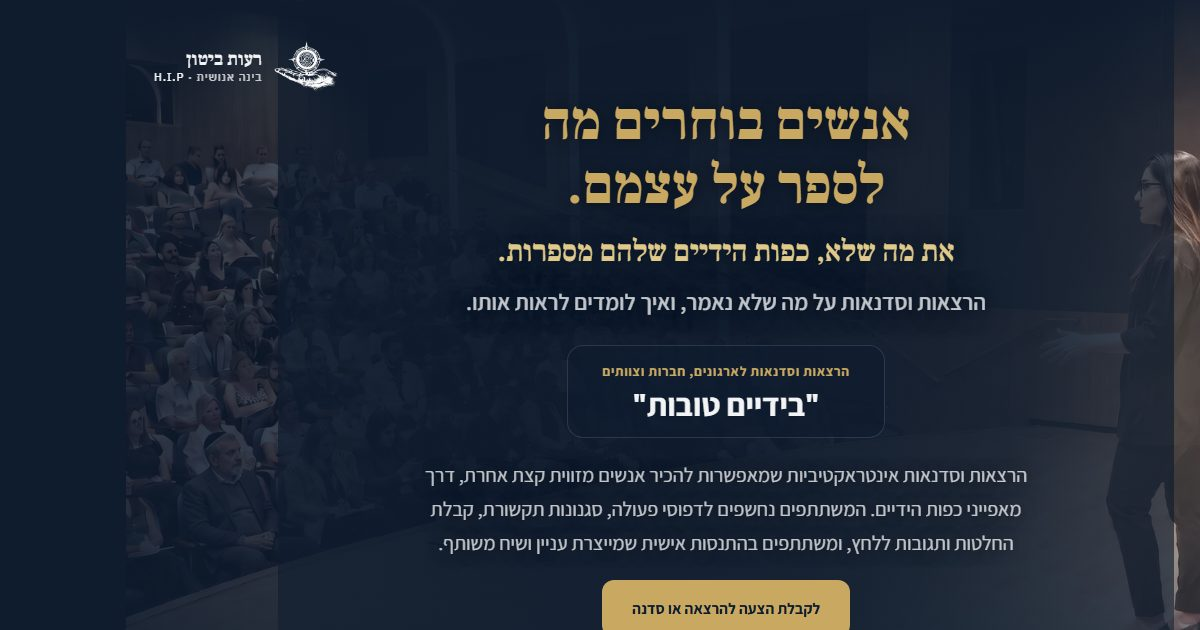
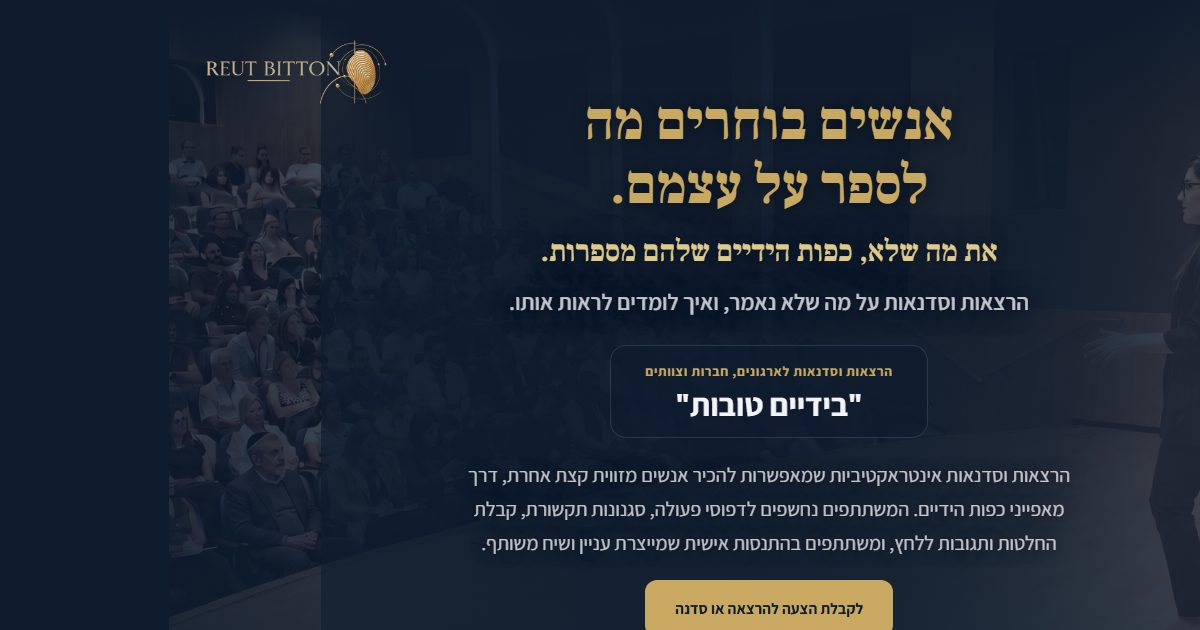
הלוגו של האתר הראשי בפתיח ובפוטר (יובל 08/11: "תשתמש בלוגו הזה")
media/logo.webp הוא הקובץ שהאתר עצמו מציג בסרגל ובפוטר (logo-compact-ondark, בלי שורת התיאור),
עם רקע שקוף. מחליף את סימן היד והטקסט "רעות ביטון · בינה אנושית". תמונת השיתוף הופקה מחדש.

diff --git a/index.html b/index.html
@@ -2673,6 +2673,15 @@ html.skin-f .bc .about > .wrap { position:relative; z-index:1; }
         linear-gradient(180deg, rgba(15,28,46,.4), rgba(15,28,46,.4)) !important;
     }
   }
+  /* 08/11, יובל: "תשתמש בלוגו הזה": הלוגו של האתר הראשי (assets/images/brand/logo-compact-ondark, הגרסה בלי שורת התיאור,
+     אותו קובץ שהאתר מציג בסרגל ובפוטר) במקום סימן היד והטקסט "רעות ביטון · בינה אנושית". הטקסט נשאר בסימון ומוסתר. */
+  html.skin-f .bc .wm-hand, html.skin-f .bc .hero .wm-hand { content:url(media/logo.webp); width:auto; height:64px; }
+  html.skin-f .bc .wordmark .wm-txt { display:none; }
+  html.skin-f .bc footer .foot-wordmark .wm-hand { height:58px; }
+  @media (max-width:720px){
+    html.skin-f .bc .wm-hand, html.skin-f .bc .hero .wm-hand { width:auto; height:48px; }
+    html.skin-f .bc footer .foot-wordmark .wm-hand { height:48px; }
+  }
 </style>
 
 <div class="bc">
@@ -2683,7 +2692,7 @@ html.skin-f .bc .about > .wrap { position:relative; z-index:1; }
   <header class="hero" id="top">
     <div class="wrap">
       <div class="topbar">
-        <a href="#top" class="wordmark" aria-label="רעות ביטון, לראש הדף"><img class="wm-hand" src="media/mark.png" width="209" height="160" alt="" aria-hidden="true"><span class="wm-txt"><span class="wm-name">רעות ביטון</span><span class="wm-sub">בינה אנושית · <span class="ltr">H.I.P</span></span></span></a>
+        <a href="#top" class="wordmark" aria-label="רעות ביטון, לראש הדף"><img class="wm-hand" src="media/logo.webp" width="640" height="209" alt="רעות ביטון"><span class="wm-txt"><span class="wm-name">רעות ביטון</span><span class="wm-sub">בינה אנושית · <span class="ltr">H.I.P</span></span></span></a>
       </div>
       <div class="hero-copy">
         <h1 class="fade">אנשים בוחרים מה לספר על עצמם.</h1>
@@ -2998,7 +3007,7 @@ html.skin-f .bc .about > .wrap { position:relative; z-index:1; }
 
   <footer>
     <div class="wrap">
-      <div class="wordmark foot-wordmark"><img class="wm-hand" src="media/mark.png" width="209" height="160" alt="" aria-hidden="true"><span class="wm-txt"><span class="wm-name">רעות ביטון</span><span class="wm-sub">בינה אנושית · <span class="ltr">H.I.P</span></span></span></div>
+      <div class="wordmark foot-wordmark"><img class="wm-hand" src="media/logo.webp" width="640" height="209" alt="רעות ביטון"><span class="wm-txt"><span class="wm-name">רעות ביטון</span><span class="wm-sub">בינה אנושית · <span class="ltr">H.I.P</span></span></span></div>
       <p class="legal">ההתנסות הדיגיטלית היא כלי היכרות עצמי המבוסס על שיטת ניתוח מאפייני כפות הידיים של רעות ביטון, ומבוסס גם על שיטת ד"ר ארנולד הולצמן (אינו קורס/שירות רשמי מטעמו). התכנים אינם אבחון רפואי או פסיכולוגי קליני, אינם ייעוץ תעסוקתי ואינם בסיס להחלטות על העסקה, קידום או התאמה לתפקיד.</p>
       <div>בידיים טובות · הרצאות וסדנאות לארגונים, חברות וצוותים · שיטת <span class="ltr">H.I.P</span></div>
       <!-- הקישור לאתר הוסר: הוא מוביל מדף קמפיין חד־מטרתי לעולם מותגי אחר (קריירה, זוגיות, צמיחה אישית) -->
